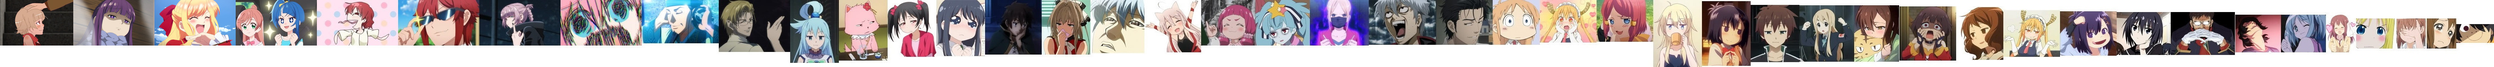
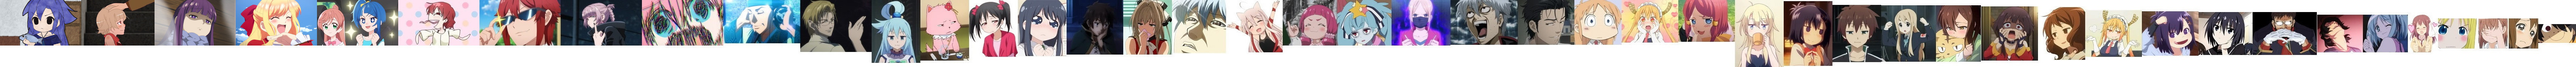
🐟

diff --git a/src/_commentfaces-static.scss b/src/_commentfaces-static.scss
@@ -356,7 +356,7 @@ $static-comment-faces: (
 				"diy": 				("height": 135, "width": 115, "position": 5023)
 				)),
 
-		34: ("sprite-sheet": "cf-static-046", "total-width": 6603, "items": (
+		34: ("sprite-sheet": "cf-static-046", "total-width": 6818, "items": (
 				"araragi-1": ("height": 50, "width": 100, "position": 100),
 				"yui-crying": ("height": 80, "width": 78, "position": 178),
 				"facepalm": ("height": 80, "width": 77, "position": 258),
@@ -392,7 +392,7 @@ $static-comment-faces: (
 				"sideeyes": ("height": 161, "width": 129, "position": 4382),
 				"konosubawot": ("height": 167, "width": 129, "position": 4511))),
 
-		35: ("sprite-sheet": "cf-static-046", "total-width": 6603, "items": (
+		35: ("sprite-sheet": "cf-static-046", "total-width": 6818, "items": (
 				"michaelwink": 			("height": 137, "width": 189, "position": 4700),
 				"listen": 				("height": 115, "width": 204, "position": 4904),
 				"bocchitheshock":     	("height": 121, "width": 215, "position": 5119),
@@ -402,7 +402,8 @@ $static-comment-faces: (
 				"skyhype":	     		("height": 121, "width": 215, "position": 5979),
 				"ohoho":	     		("height": 121, "width": 215, "position": 6194),
 				"unamusedfern":	     	("height": 121, "width": 215, "position": 6409),
-				"headpat":		     	("height": 121, "width": 194, "position": 6603))),
+				"headpat":		     	("height": 121, "width": 194, "position": 6603),
+				"fish":			     	("height": 121, "width": 194, "position": 6818))),
 
 		36: ("sprite-sheet": "cf-static-039", "total-width": 3561, "items": (
 				"seasonalapproval": 	("height": 121, "width": 184, "position": 184),
